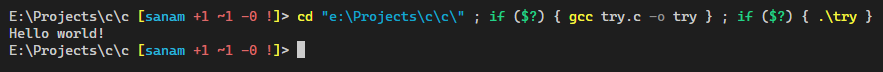
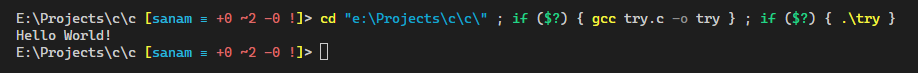
chore: stuff

Changed region(s): [[0.0, 0.1389, 1.0, 0.3611], [0.0, 0.5556, 0.3669, 0.8333], [0.0, 0.3889, 0.1223, 0.5556]]

diff --git a/try.c b/try.c
@@ -2,6 +2,6 @@
 
 int main()
 {
-    printf("Hello world!");
+    printf("Hello World!");
     return 0;
 }

diff --git a/README.md b/README.md
@@ -1,28 +1,28 @@
 # C
 
-C Programming Reference
+C is a general-purpose computer programming language. It was created in the 1970s by Dennis Ritchie, and remains very widely used and influential.
 
 ## Table of contents
 
 - [Write a program (WAP)](#write-a-program-wap)
-  - [WAP to print hello world](#wap-to-print-hello-world)
+  - [WAP to print Hello World](#wap-to-print-hello-world)
 
 ### Write a program (WAP)
 
-#### WAP to print hello world
+#### WAP to print Hello World
 
 ```c
 #include <stdio.h>
 
 int main()
 {
-    printf("Hello world!");
+    printf("Hello World!\n");
     return 0;
 }
 ```
 
 <details><summary>See output</summary>
 
-![1](ss/1.png)
+![1](./ss/1.png)
 
 </details>
